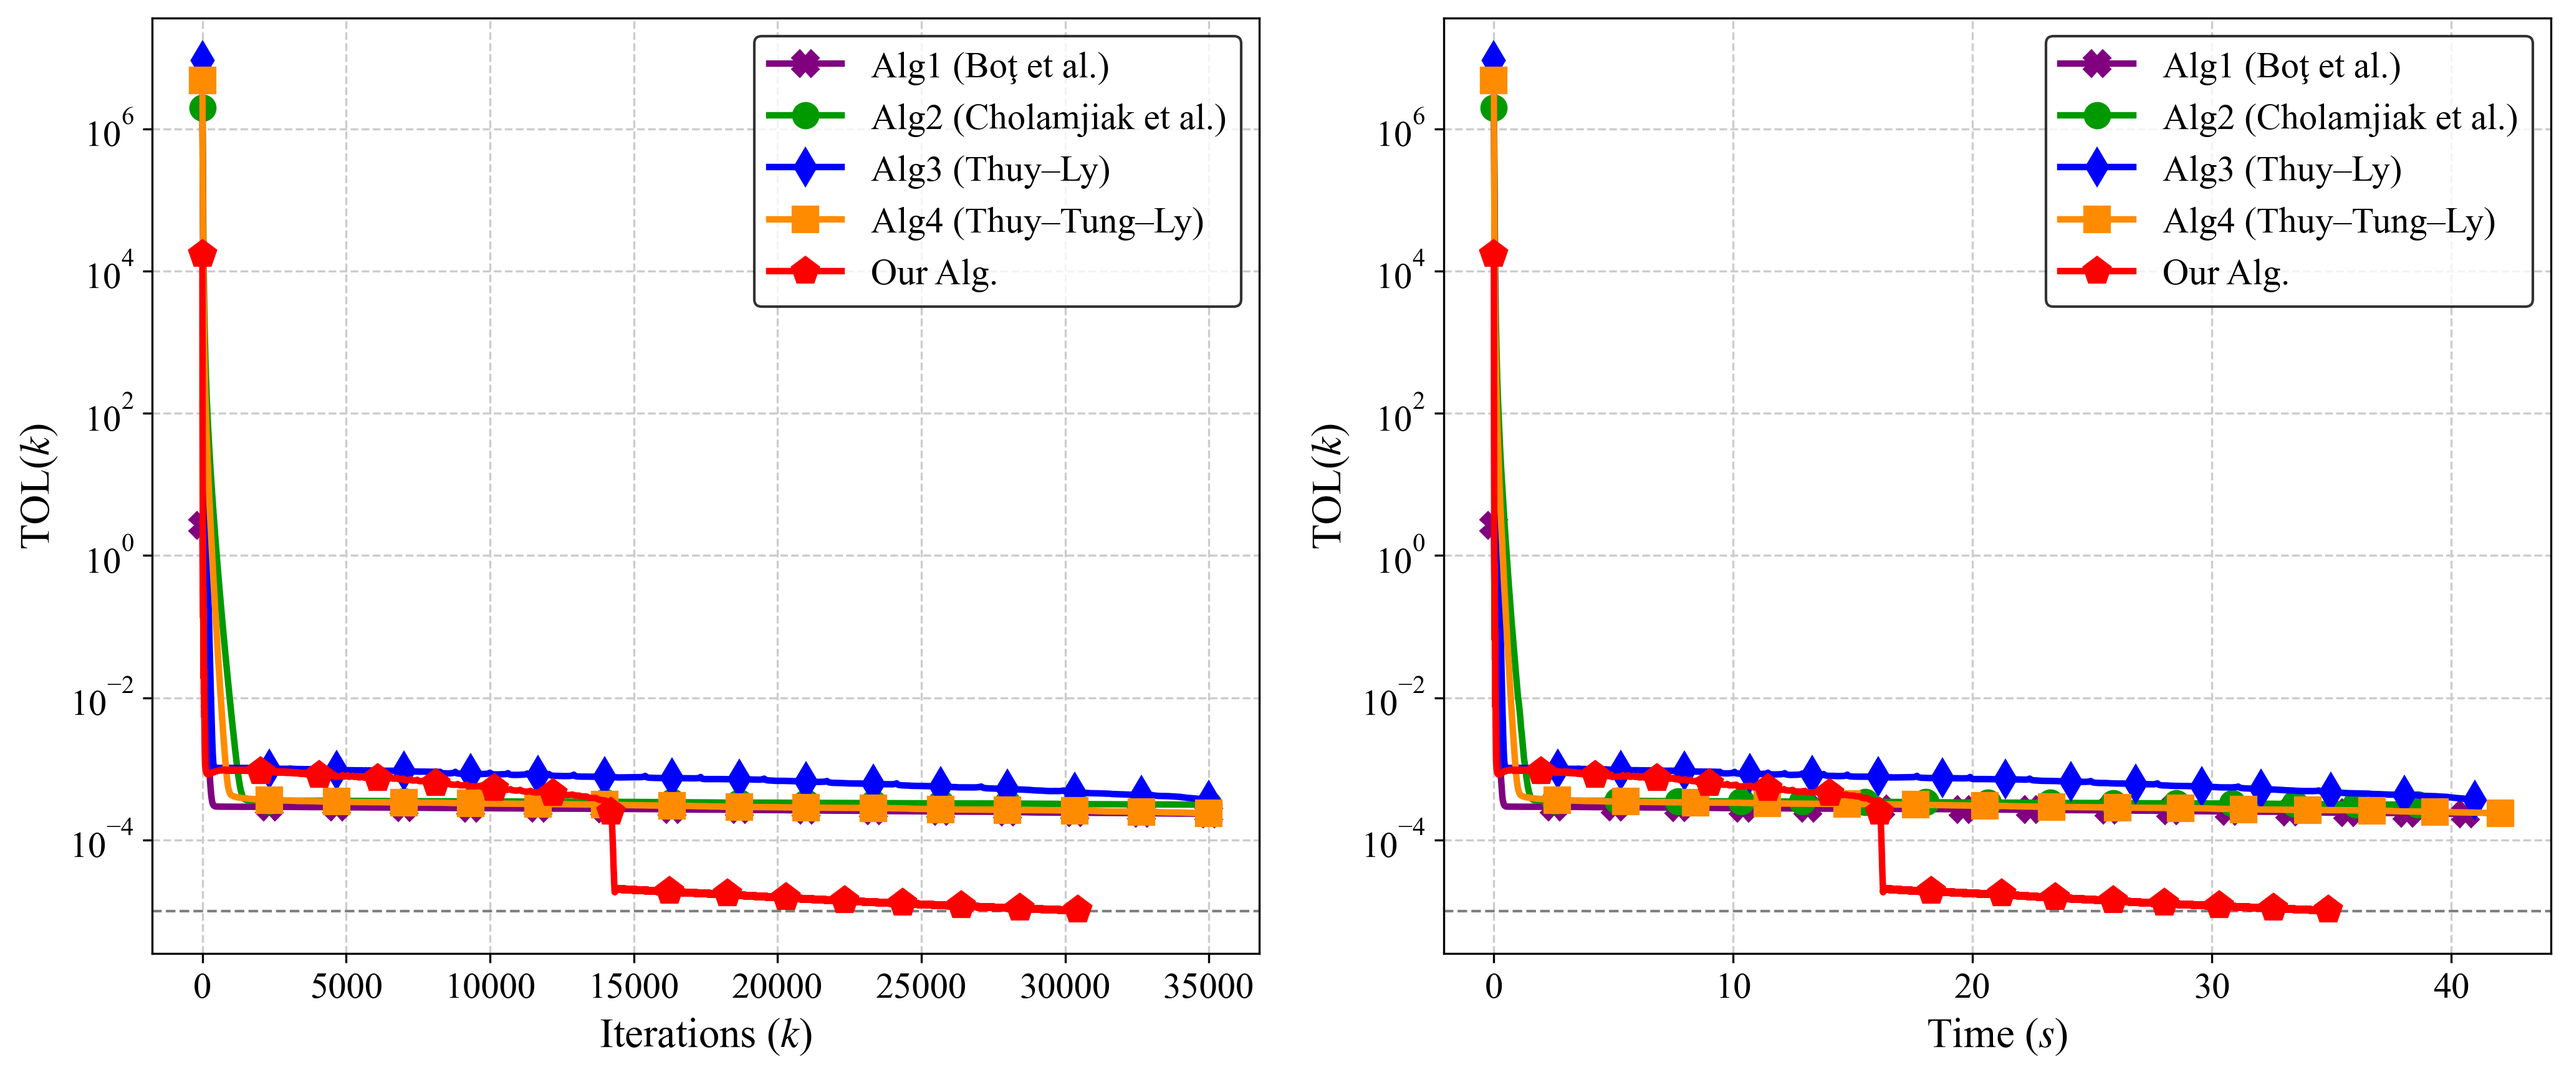
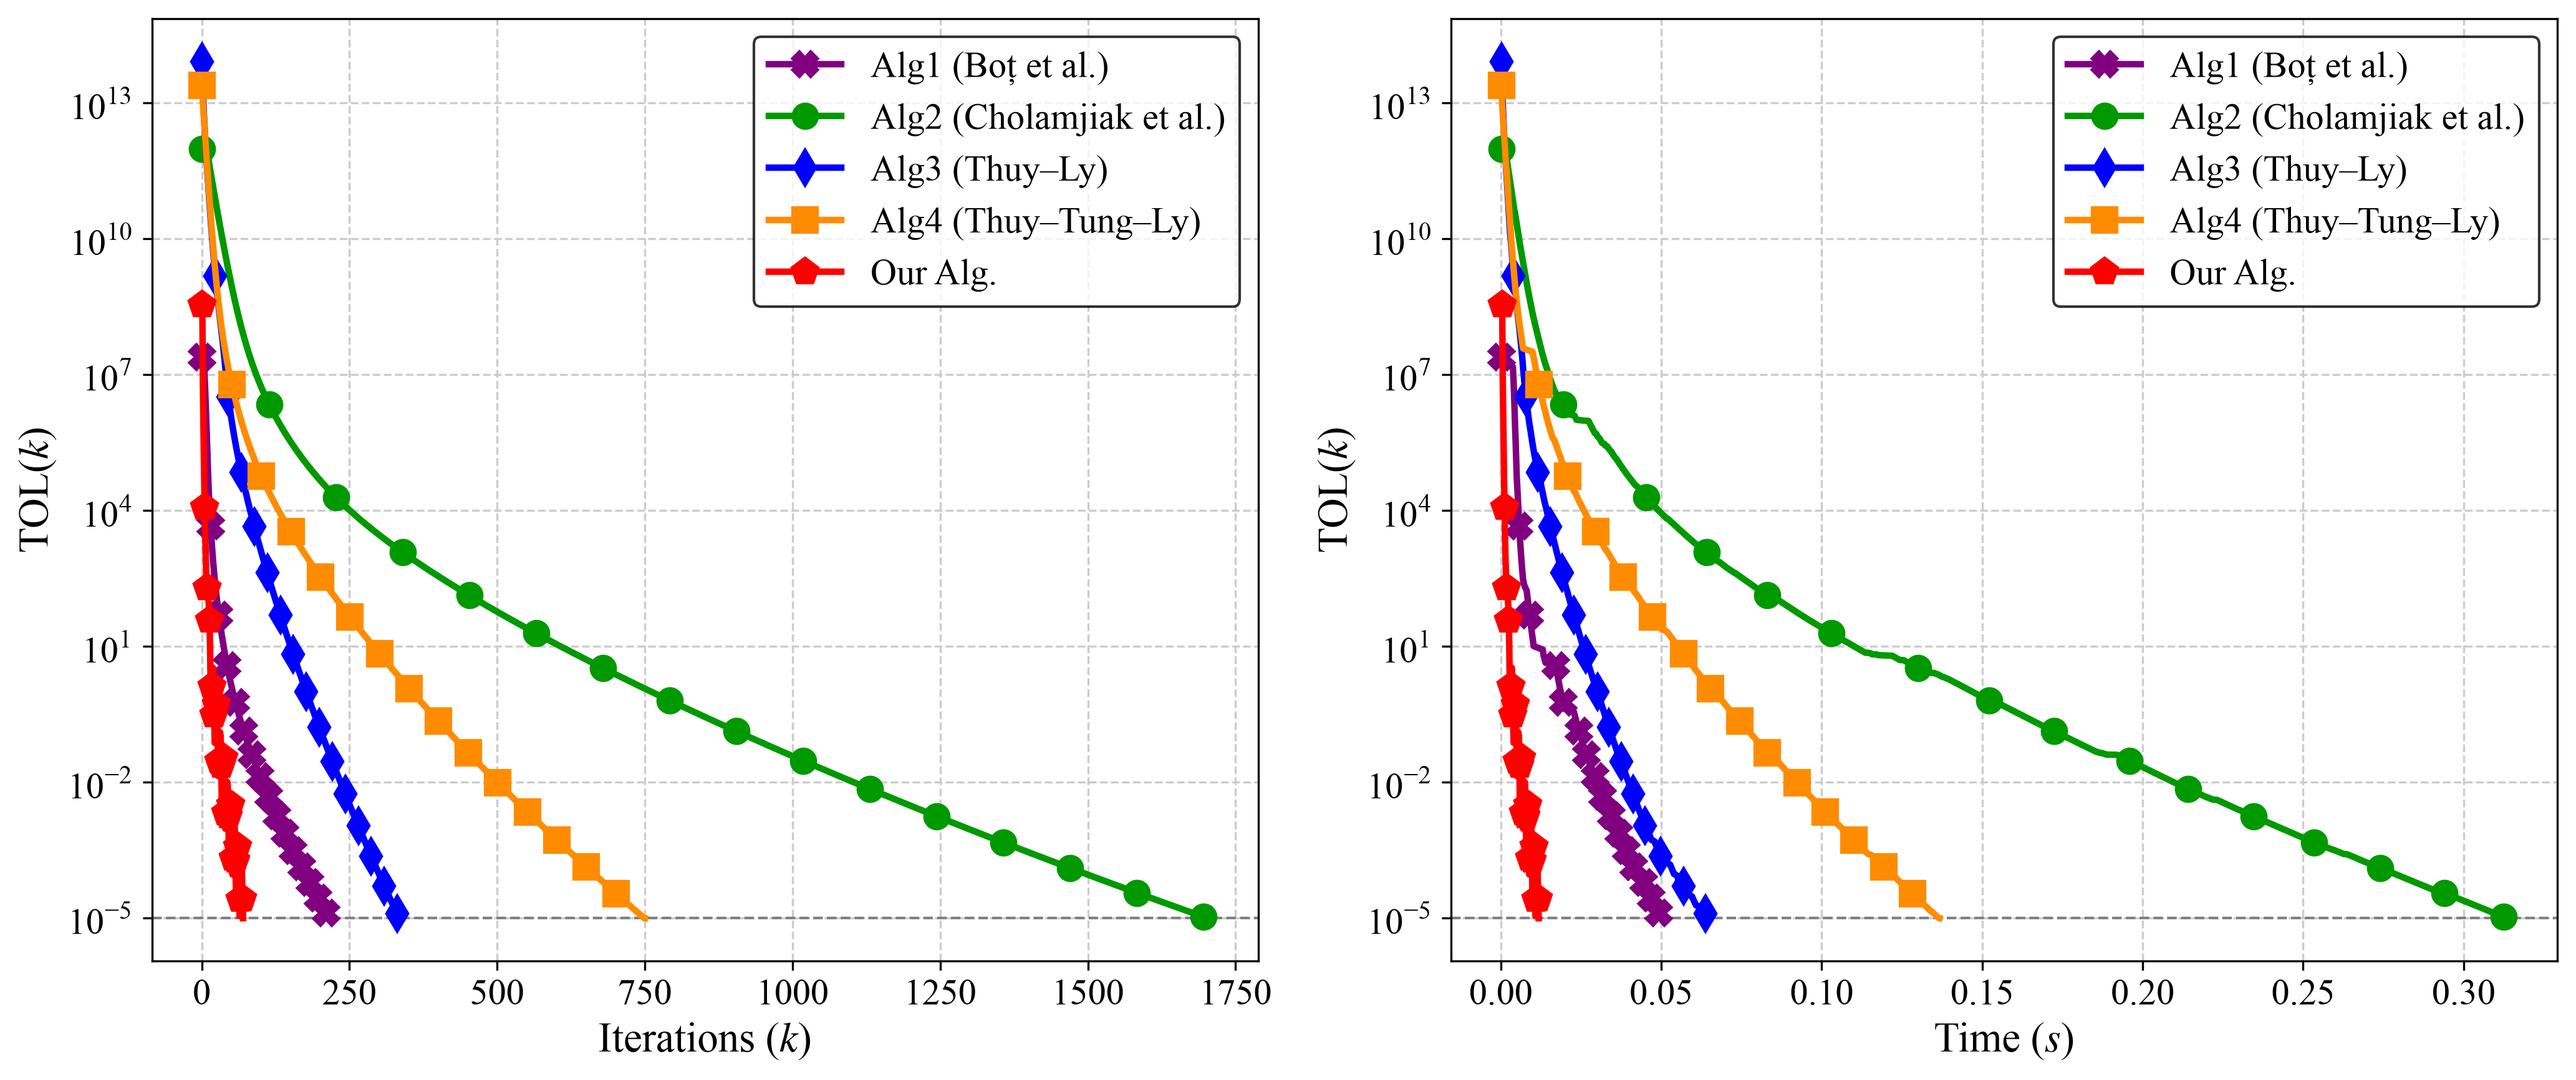
FixCode

diff --git a/src/problems.py b/src/problems.py
@@ -70,26 +70,24 @@ def elastic_net_problem(K=512, L=1024, sigma1=0.1, sigma2=0.2, seed=42):
     z = rng.standard_normal(K)
     x0 = rng.standard_normal(L)
     return dict(name="Ex4.3-ElasticNet",
-                B=lambda x: T.T @ (T @ x - z) + 2 * sigma2 * x,
+                B=lambda x: T.T @ (T @ x - z) + sigma2 * x,   # g = 1/2||Tx-z||^2 + sigma2/2 ||x||^2 (khớp Fig. 5-6)
                 J=lambda v, lam: soft_threshold(v, lam * sigma1),
-                ell=lambda_max_gram(T) + 2 * sigma2, x0=x0, **_euclid())
+                ell=lambda_max_gram(T) + sigma2, x0=x0, **_euclid())
 
 
 # --------------------------------------------------------------------------
 # Example 4.4: Sparse logistic regression  
 # --------------------------------------------------------------------------
-def sparse_logistic_problem(L=512, K=1024, nnz=30, sigma1=0.1, seed=42):
+def sparse_logistic_problem(L=32, K=64, sigma1=0.1, seed=42):
+    # Bài: L=32, K=64, T ~ N(0,1), y_j ~ Bernoulli độc lập (không sinh từ mô hình), x0 ~ randn(K)
     rng = np.random.default_rng(seed)
     T = rng.standard_normal((L, K))
-    beta_true = np.zeros(K)
-    idx = rng.choice(K, nnz, replace=False)
-    beta_true[idx] = rng.standard_normal(nnz)
-    y = rng.binomial(1, sigmoid(T @ beta_true)).astype(float)
+    y = rng.integers(0, 2, L).astype(float)
     x0 = rng.standard_normal(K)
     return dict(name="Ex4.4-SparseLogReg",
                 B=lambda b: T.T @ (sigmoid(T @ b) - y),
                 J=lambda v, lam: soft_threshold(v, lam * sigma1),
-                ell=lambda_max_gram(T) / 4.0, x0=x0, beta_true=beta_true, **_euclid())
+                ell=lambda_max_gram(T) / 4.0, x0=x0, **_euclid())
 
 
 BUILDERS = {

diff --git a/config.py b/config.py
@@ -19,19 +19,19 @@ f_visc = lambda x: 0.5 * x
 F_alg3 = lambda x: 0.5 * x
 
 # ---- các dãy tham số điều khiển chung (k >= 1) ------------------------------------------------
-alpha_k = lambda k: 0.1 / (k + 1) ** 0.99
-eta_k = lambda k: 0.1 / (k + 1) ** 1.1
+alpha_k = lambda k: 1e-4 / (k + 1) ** 0.99
+eta_k = lambda k: 1e-2 / (k + 1) ** 1.1
 tau_k = lambda k: k / (2 * k + 1)
 mu_k = lambda k: k / (3 * k + 1)
 inv_sq = lambda k: 1.0 / (k + 1) ** 2
 
 PARAMS = {
-    "ours": dict(lam1=0.5, theta=0.4, a=0.3, b=1.8,
+    "ours": dict(lam1=0.5, theta=0.1, a=0.3, b=1.9,   # a in (0,1), b in (0,2); chung cho Ex 4.2-4.4
                  alpha=alpha_k, eta=eta_k,
                  delta=lambda k: 1.0, xi=inv_sq, a_k=inv_sq, b_k=inv_sq),
-    "alg1": dict(inertia=0.4, a=0.3, lam1=0.5,  
-                 stepsize_mode="constant", rho_mode="table"),
-    "alg2": dict(lam1=0.5, alpha=0.4, theta=0.4, mu=0.3),
+    "alg1": dict(inertia=0.5, a=0.3, lam1=0.5,
+                 stepsize_mode="adaptive", rho_mode="table"),
+    "alg2": dict(lam1=0.5, alpha=0.5, theta=0.2, mu=0.3),
     "alg3": dict(lam1=0.5, mu=0.3, alpha=alpha_k, eta=eta_k,
                  tau=tau_k, mu_k=mu_k, rho=inv_sq, xi=inv_sq),
     "alg4": dict(lam1=0.5, mu=0.3, alpha=alpha_k, eta=eta_k,

diff --git a/src/runner.py b/src/runner.py
@@ -5,8 +5,8 @@ from . import algorithms as alg
 
 
 def residual(P, x, lam):
-    """TOL(k) := || x_k - J_{λ_k}^A (x_k - λ_k B x_k) ||."""
-    return P["norm"](x - P["J"](x - lam * P["B"](x), lam))
+    """TOL(k) := || x_k - J_{λ_k}^A (x_k - λ_k B x_k) ||^2  (bình phương, khớp hình trong bài)."""
+    return P["norm"](x - P["J"](x - lam * P["B"](x), lam)) ** 2
 
 
 def run(P, state0, step, tol, max_iter):

diff --git a/results/tables/example_4.2.md b/results/tables/example_4.2.md
@@ -1,7 +1,7 @@
 | Method                   |   Iterations |   CPU time (s) |    TOL(k) |
 |:-------------------------|-------------:|---------------:|----------:|
-| Our Alg.                 |        30462 |          34.88 | 9.999e-06 |
-| Alg1 (Boţ et al.)        |        35000 |          40.6  | 0.0002342 |
-| Alg2 (Cholamjiak et al.) |        35000 |          38.6  | 0.0003151 |
-| Alg3 (Thuy–Ly)           |        35000 |          40.99 | 0.0003625 |
-| Alg4 (Thuy–Tung–Ly)      |        35000 |          42.05 | 0.0002365 |
+| Our Alg.                 |           70 |        0.0118  | 4.063e-06 |
+| Alg1 (Boţ et al.)        |          216 |        0.05025 | 9.972e-06 |
+| Alg2 (Cholamjiak et al.) |         1703 |        0.3135  | 9.954e-06 |
+| Alg3 (Thuy–Ly)           |          335 |        0.06453 | 9.785e-06 |
+| Alg4 (Thuy–Tung–Ly)      |          750 |        0.1367  | 9.802e-06 |

diff --git a/results/tables/example_4.3.md b/results/tables/example_4.3.md
@@ -1,7 +1,7 @@
 | Method                   |   Iterations |   CPU time (s) |    TOL(k) |
 |:-------------------------|-------------:|---------------:|----------:|
-| Our Alg.                 |        12553 |          19.34 | 9.997e-06 |
-| Alg1 (Boţ et al.)        |        35000 |          49.6  | 5.571e-05 |
-| Alg2 (Cholamjiak et al.) |        35000 |          49.48 | 0.0003327 |
-| Alg3 (Thuy–Ly)           |        23875 |          34.11 | 9.999e-06 |
-| Alg4 (Thuy–Tung–Ly)      |        35000 |         103.7  | 2.121e-05 |
+| Our Alg.                 |           71 |        0.01348 | 5.882e-06 |
+| Alg1 (Boţ et al.)        |          221 |        0.04559 | 9.622e-06 |
+| Alg2 (Cholamjiak et al.) |         1766 |        0.3892  | 9.991e-06 |
+| Alg3 (Thuy–Ly)           |          363 |        0.07294 | 9.793e-06 |
+| Alg4 (Thuy–Tung–Ly)      |          777 |        0.1609  | 9.96e-06  |

diff --git a/results/tables/example_4.4.md b/results/tables/example_4.4.md
@@ -1,7 +1,7 @@
 | Method                   |   Iterations |   CPU time (s) |    TOL(k) |
 |:-------------------------|-------------:|---------------:|----------:|
-| Our Alg.                 |        24794 |          29.15 | 9.999e-06 |
-| Alg1 (Boţ et al.)        |        35000 |          44.62 | 0.0001905 |
-| Alg2 (Cholamjiak et al.) |        35000 |          48.23 | 0.002609  |
-| Alg3 (Thuy–Ly)           |        28244 |          37.2  | 9.999e-06 |
-| Alg4 (Thuy–Tung–Ly)      |        35000 |          51.48 | 0.001703  |
+| Our Alg.                 |          186 |       0.00442  | 8.687e-06 |
+| Alg1 (Boţ et al.)        |          540 |       0.01082  | 9.136e-06 |
+| Alg2 (Cholamjiak et al.) |         1742 |       0.03223  | 9.992e-06 |
+| Alg3 (Thuy–Ly)           |          412 |       0.009113 | 9.93e-06  |
+| Alg4 (Thuy–Tung–Ly)      |          880 |       0.01934  | 9.943e-06 |
